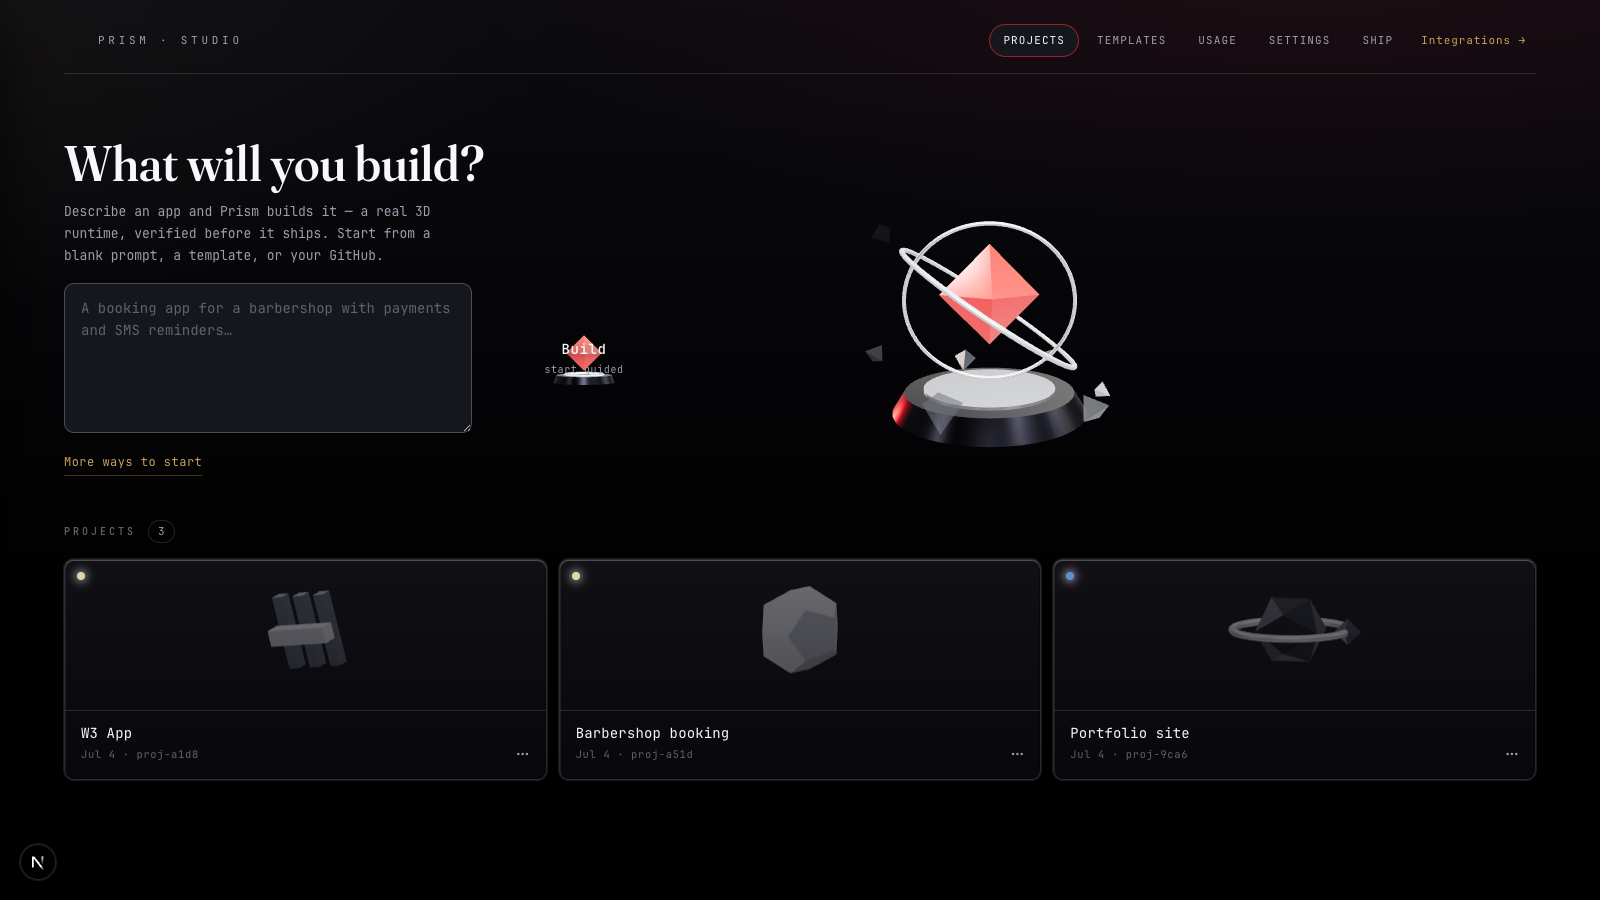
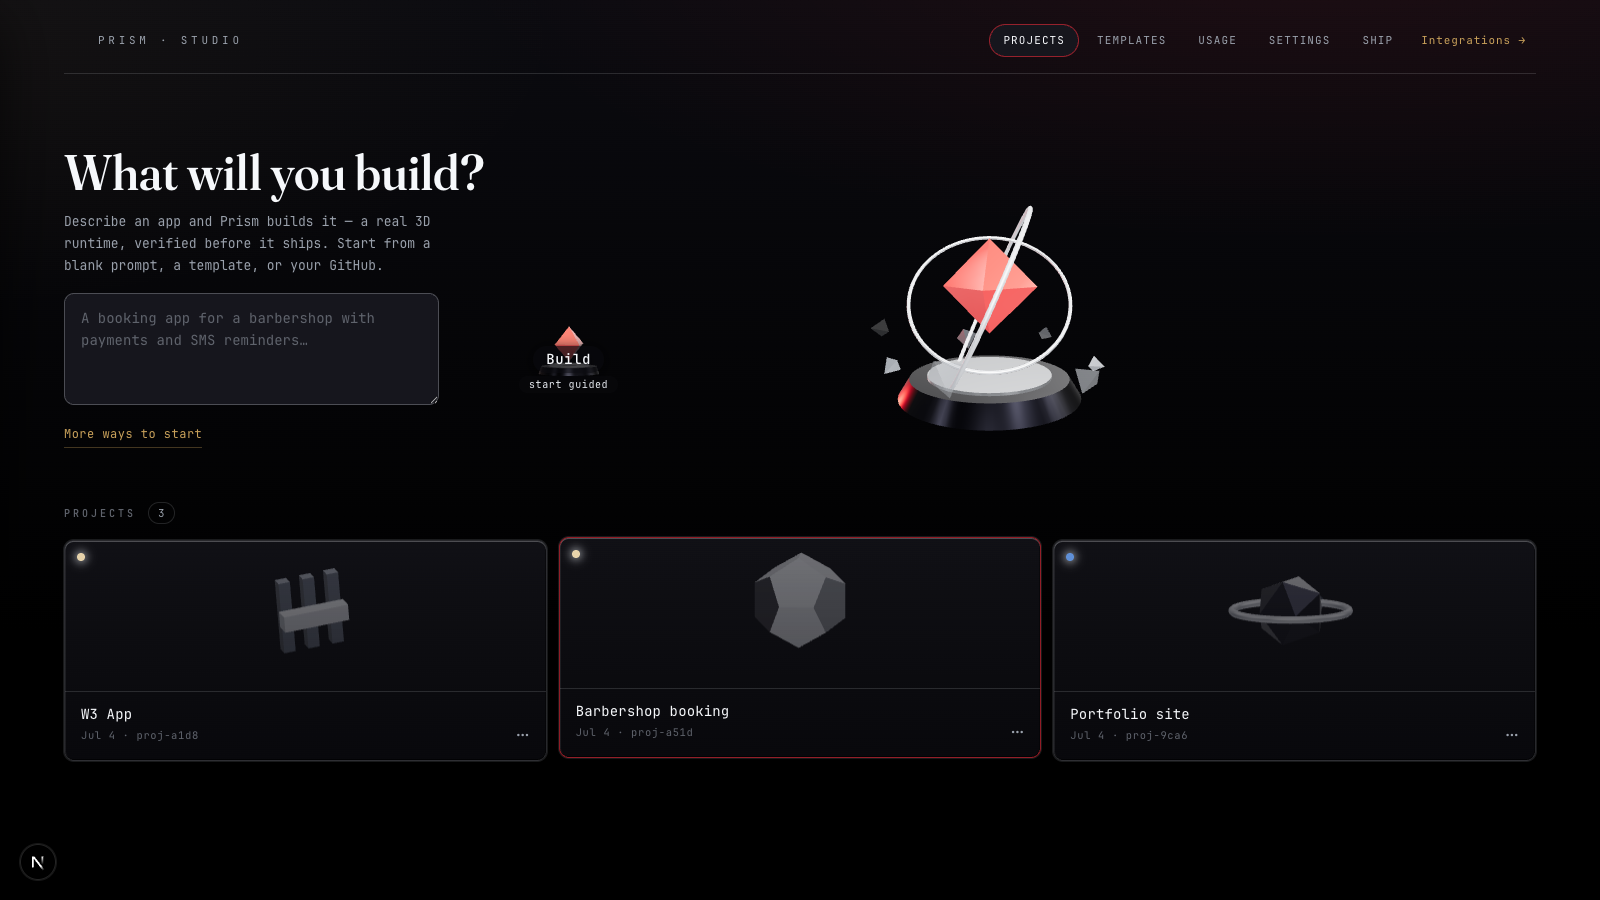
shell-w4: advocate MUST-FIX — primary Build CTA legibility. Fixed 236x112 host (no stretch) + label/sublabel moved BELOW the 3D jewel onto the dark pedestal with contrast plates, so text never collides with the bright red facet (desktop + mobile). Re-captured 01 + added 08 closeup

diff --git a/kid-kode-landing/src/components/shell/dashboard/dashboard.css b/kid-kode-landing/src/components/shell/dashboard/dashboard.css
@@ -121,10 +121,10 @@
 }
 .dw-launch-field {
   display: grid;
-  grid-template-columns: minmax(0, 1fr) 200px;
+  grid-template-columns: minmax(0, 1fr) 236px;
   gap: var(--pp-space-3);
   align-items: stretch;
-  max-width: 620px;
+  max-width: 660px;
 }
 .dw-prompt {
   background: var(--pp-elev-2);
@@ -156,10 +156,30 @@
   align-items: center;
   justify-content: center;
 }
+/* Fixed, roomy host so the 3D jewel frames correctly (not stretched), and the
+   label sits BELOW the gem on the dark pedestal with a contrast plate — the
+   most important action stays legible over the rendered object (advocate MUST-
+   FIX: text must not collide with the bright red facet). */
 .dw-launch-go .iv-cta {
-  width: 100%;
-  height: 100%;
-  min-height: 88px;
+  width: 236px;
+  height: 112px;
+}
+.dw-launch-go .iv-cta-hit {
+  justify-content: flex-end;
+  padding-bottom: 12px;
+  gap: 3px;
+}
+.dw-launch-go .iv-cta-label {
+  background: rgba(8, 8, 12, 0.72);
+  padding: 3px 13px;
+  border-radius: var(--pp-radius-pill);
+  box-shadow: 0 2px 14px rgba(0, 0, 0, 0.7);
+}
+.dw-launch-go .iv-cta-sub {
+  color: var(--pp-text);
+  background: rgba(8, 8, 12, 0.6);
+  padding: 1px 10px;
+  border-radius: var(--pp-radius-pill);
 }
 
 .dw-disclose {
@@ -998,10 +1018,7 @@
     grid-template-columns: 1fr;
   }
   .dw-launch-go {
-    height: 92px;
-  }
-  .dw-launch-go .iv-cta {
-    width: 100%;
+    justify-content: flex-start;
   }
 }
 
